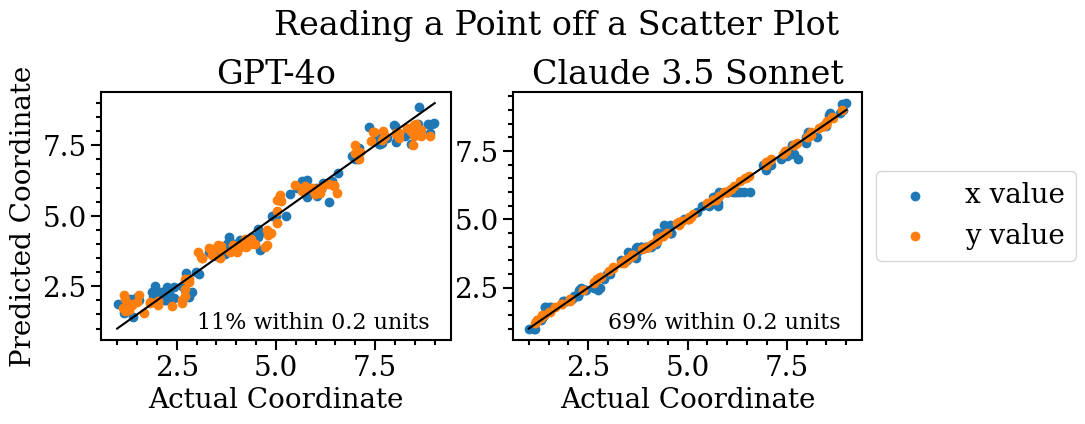
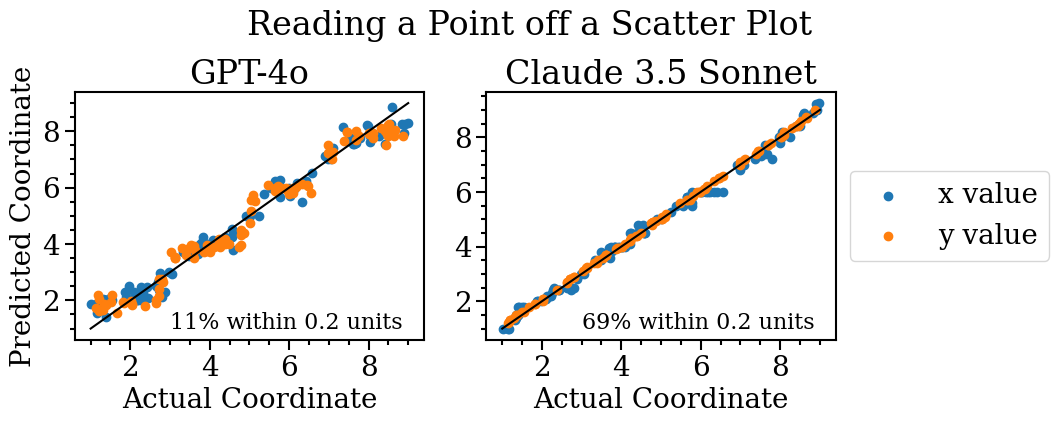
Updated coords on analysis plots

diff --git a/analyze_results.py b/analyze_results.py
@@ -26,6 +26,8 @@ for idx, (name, filename) in enumerate(zip(names, filenames)):
     ax = axes[idx]
     ax.scatter(points.x, model.x, label='x value')
     ax.scatter(points.y, model.y, label='y value')
+    ax.set_xticks([2, 4, 6, 8])
+    ax.set_yticks([2, 4, 6, 8])
     ax.set_xlabel('Actual Coordinate')
     if idx == 0:
         ax.set_ylabel('Predicted Coordinate')
@@ -51,6 +53,8 @@ for idx, (name, filename) in enumerate(zip(names, filenames)):
     ax = axes[idx]
     ax.scatter(points.x, points.y, label='Actual')
     ax.scatter(model.x, model.y, label='Predicted')
+    ax.set_xticks([2, 4, 6, 8])
+    ax.set_yticks([2, 4, 6, 8])
     for i in range(len(points.x)):
         ax.plot([points.x[i], model.x[i]], [points.y[i], model.y[i]], color='black', alpha=0.2)
     ax.set_title(f'{name}')
